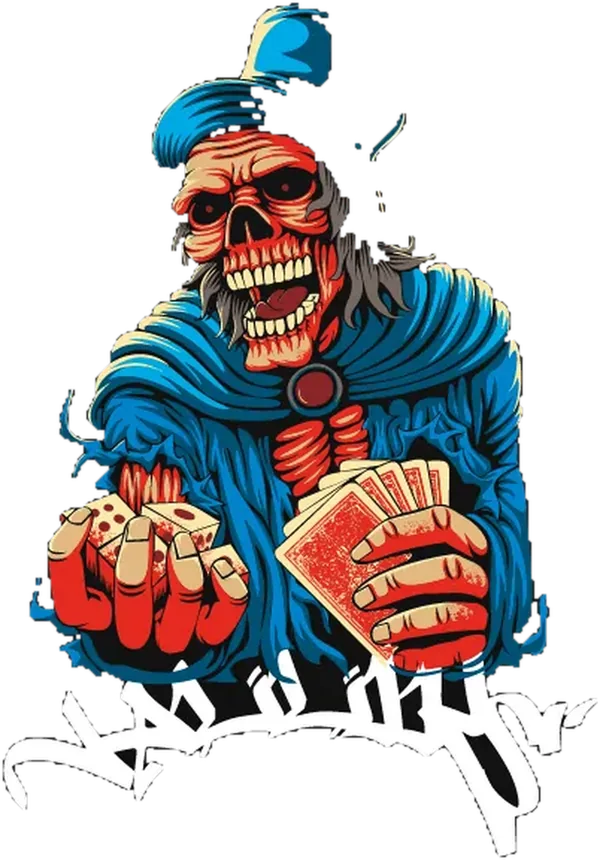
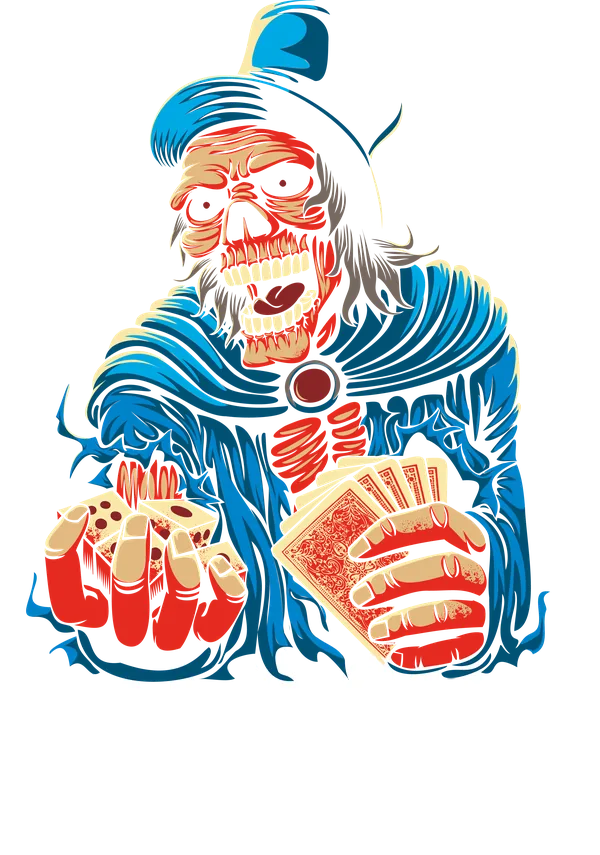
الرسمات الأصلية عوض المستخرجة
الرسمات ف المعرض ولاو ملفات أصلية من الرسام: PNG بخلفية شفافة،
4501×4500 مصدر، 2507→3539 بعد القص. كانو ~430 بيكسل حقيقية (مكبّرين
اصطناعياً لـ~1000). MIN_PRINT_PX ف custom.js هو 1500 — دابا كلهم فوقو.

علاش المستخرجة ماكانتش تصلح
---------------------------
باش تفصل الطبعة على القماش، خاص لون القماش يكون مختلف على **كل** لون ف
الرسم. جربنا الأربعة:

  كحل   → الخطوط السودا ديال الرسم = لون القماش
  نايفي → العباءة ديال high-roller
  أخضر  → جاكيط وسكوتر speed-demon
  بيض   → الغرافيتي

ماشي مسألة عتبة — المعلومة ماكايناش. القياس على الملفات القديمة: 86%
من الأخضر ف total-strike و91% ف high-roller كانو بالضبط #2f5b32، هيكس
التيشيرت الأخضر. والغرافيتي ديال speed-demon كان أزرق من موكاب النايفي
عوض أبيض.

- scripts/extract-designs.py و npm run designs:extract تحيدو.

الاختيارات
----------
speed-demon: غرافيتي وردي #d80078 من 4 نسخ — أعلى تباين على الخمسة
ديال ألوان التيشيرت. الأخضر كان غادي يتصادم مع sage.
total-strike: النسخة بـ30% أسود عوض 38% — الرشاش الزايد كيختافى على
الكحل وكيبان بقوة على البيض، فكيبدل شكل الطبعة حسب اللون.

تحققنا من الـ20 تركيبة (4 رسمات × 5 ألوان) بمعاينة مبنية على نفس
خوارزمية mockup.js: الخطوط محفوظة، ماكاينش تلوث من لون القماش،
والطيات كتمر من الطبعة.

diff --git a/README.md b/README.md
@@ -151,28 +151,19 @@ npm run designs
 **جودة الملف**: على الأقل **1500 بيكسل** ف أكبر بُعد. تحت هادشي الموقع كيحذر
 الزبون أن الطبعة غادي تبان مبكسلة — ونفس القاعدة كتنطبق على الرسمات ديالك.
 
-### من فين جايين الرسمات الحالية
+### الرسمات الحالية
 
-**مستخرجين من موكابات التيشيرت الكحل** بـ`npm run designs:extract`، ماشي
-ملفات أصلية.
+**ملفات أصلية من الرسام** — PNG بخلفية شفافة، 2507→3539 بيكسل عرضاً بعد
+القص. كلهم فوق حد الـ1500 اللي كيحذر تحتو الموقع.
 
-علاش الكحل بالضبط: الموكابات ماشي متفقين بيناتهم. نفس الغرافيتي كيبان
-**أبيض** ف الكحل، **أزرق** ف النايفي، و**أخضر** ف الأخضر. الكحل هو
-`variants[0]` ديال كل منتج وهو اللي كيبان ف الشبكة — إذن هو المرجع.
-
-النسخة اللي كانت قبل كانت مستخرجة من موكابات **ملونة**، فلون القماش تخبز
-فيها كلون معتم: 86% من الأخضر ف `total-strike` و91% ف `high-roller` كانو
-بالضبط `#2f5b32` = هيكس التيشيرت الأخضر. النتيجة كانت أن الزبون اللي
-كيختار تيشيرت كحل كيشوف بقع خضرا **ماغاديش تتطبع**. القديمة محفوظة ف
-`raw/designs/_old-contaminated/`.
-
-> ⚠ **الدقة الحقيقية ~430 بيكسل.** الموكابات 1080×1080 والطبعة كتاخد 40%
-> منها. كنكبروها ×2 باش المعاينة تبقى ناعمة، ولكن **هادشي ماكيزيدش تفصيل**.
-> (الملفات القديمة كانو ~1000px — مكبّرين هوما تاني، ماكانش فيهم أكثر.)
+> **درس من التجربة:** قبل هادو، الرسمات كانو **مستخرجين من موكابات
+> مطبوعة**. جربنا الأربعة colorways وكلهم فشلو: باش تفصل الطبعة على
+> القماش خاص لون القماش يكون مختلف على **كل** لون ف الرسم، وهادشي
+> ماكاينش — الكحل كيتصادم مع الخطوط السودا، النايفي مع العباءة الزرقا،
+> الأخضر مع جاكيط speed-demon، والبيض مع الغرافيتي.
 >
-> الموقع كيحذر الزبون تحت **1500 بيكسل** — وحتى وحدة من رسماتك ماتوصل.
-> **الحل الوحيد الحقيقي: الملفات الأصلية ديال الرسام.** حطهم ف
-> `raw/designs/` بنفس السميات وشغّل `npm run designs`.
+> إلا زدتي ديزاين جديد، **ماتحاولش تستخرجو من صورة تيشيرت**. طلب الملف
+> الأصلي.
 
 ### حجم وموضع الطباعة
 
